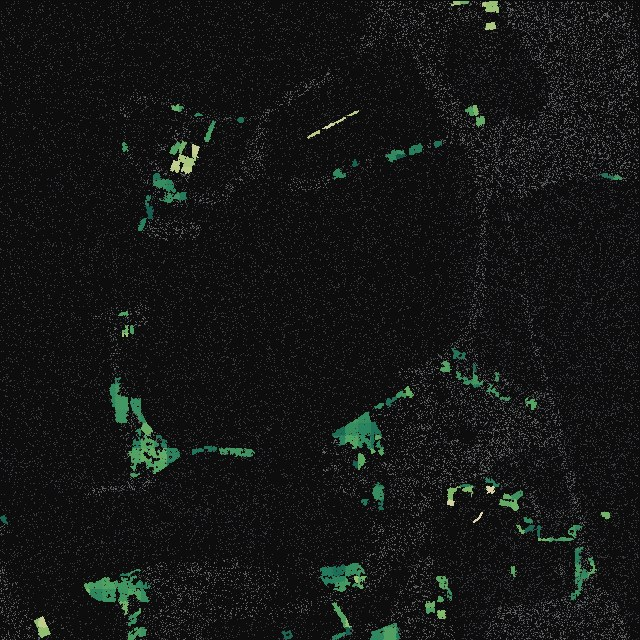
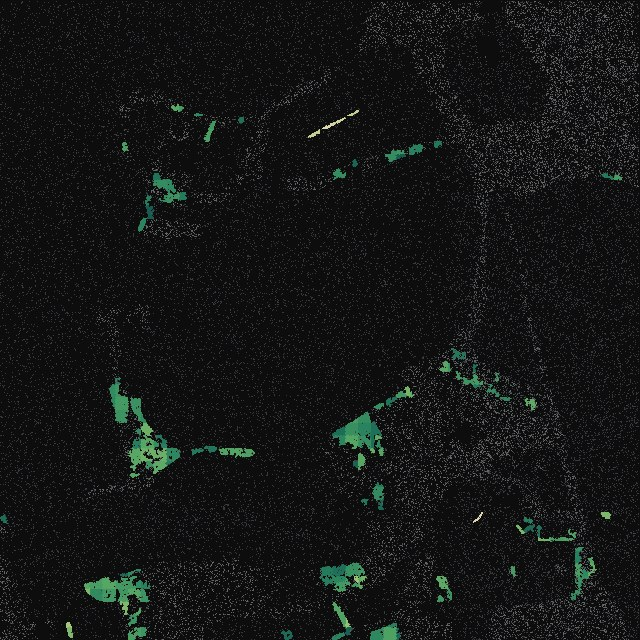
Heckenszene: Gebaeude aus der Punktwolke filtern
Aufmerksamer Befund: rechteckige "Hecken" waren in Wahrheit Haeuser. AHN
klassifiziert Gebaeude als Klasse 6; ungefiltert landen 128k Gebaeudepunkte im
1-8-m-Band des Kronenmodells und werden als Heckensegmente erkannt.
hvi_ahn_scene.R schneidet jetzt Klasse 6 (Gebaeude), 9 (Wasser) und 26
(Sonstiges) nach der Hoehennormalisierung weg -- bereinigt Segmentierung UND
Ansicht. 214 -> 173 Segmente, 0 Gebaeudepunkte im exportierten LAS (vorher
135.081), HVI 0,20-0,80.

Changed region(s): [[0.0, 0.0, 1.0, 1.0]]

diff --git a/platform/README.md b/platform/README.md
@@ -295,6 +295,12 @@ auf einer Achse unbrauchbarer Lebensraum *ist* unbrauchbar); tolerant macht
 sichtbar, wieviel die Nicht-Höhen-Kennwerte beitragen. Die Antwortkurven selbst
 sind unkalibrierte Startwerte — der nächste echte Schritt wäre Kalibrierung
 gegen Vorkommensdaten.
+- **Infrastruktur muss raus.** AHN klassifiziert Gebäude (6), Wasser (9) und
+  Sonstiges (26). Ungefiltert landen Hausdächer und -wände im 1–8-m-Band des
+  Kronenmodells und werden als „Hecken" segmentiert — im Testausschnitt 128k
+  Gebäudepunkte genau dort, sichtbar als rechteckige „Hecken". Klasse 6/9/26
+  nach der Höhennormalisierung wegschneiden räumt Segmentierung *und* Ansicht auf
+  (214 → 173 Segmente, 0 Gebäudepunkte im Ergebnis).
 - **Nicht die ganze Kachel einlesen.** `hvi_ahn_run()` liest erst alles und
   schneidet dann zu — bei 340 Mio. Punkten unmöglich. Der `-keep_xy`-Filter
   greift beim Lesen; er muss die Kachel trotzdem komplett dekomprimieren (~6 min,